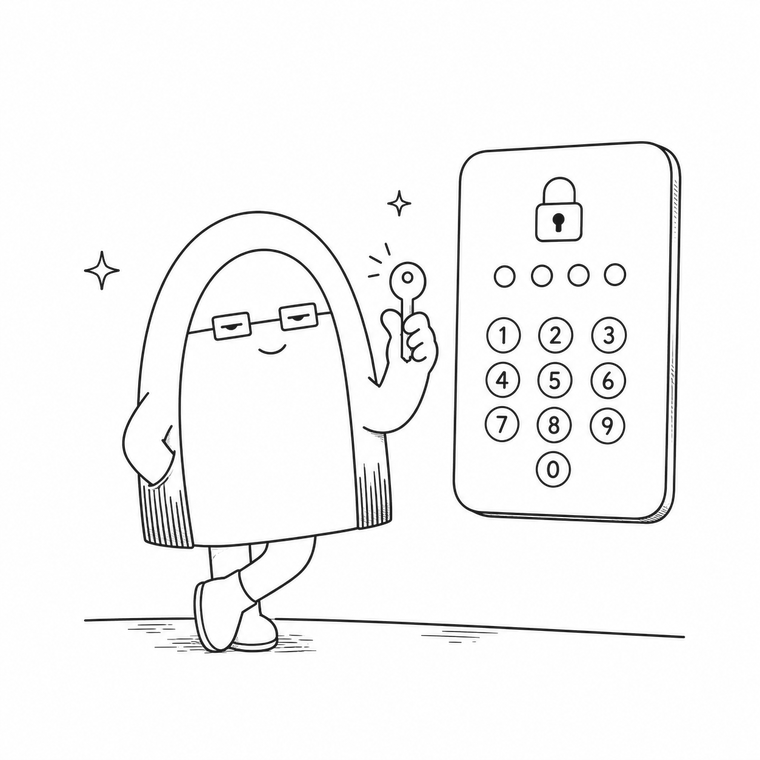
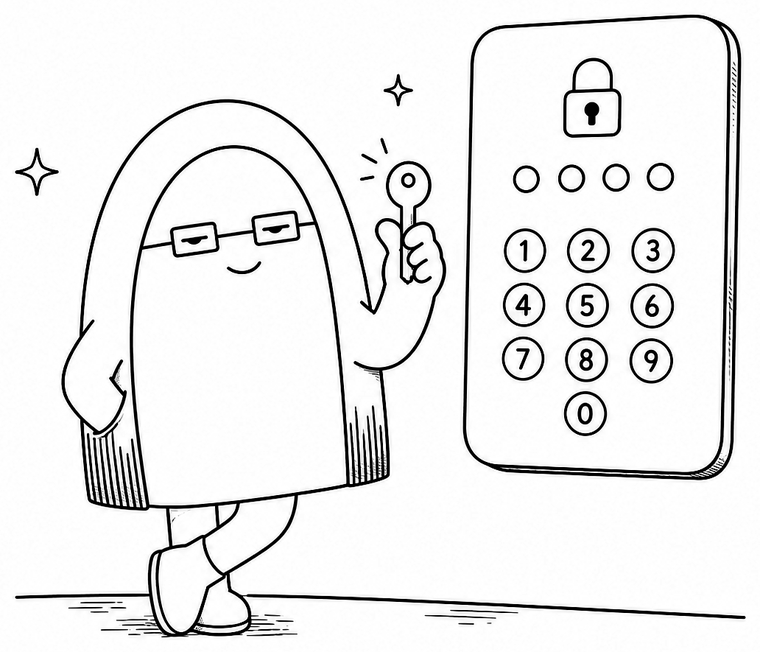
Navy gradient booking thumbnail; new passcode illustration on lock pages

diff --git a/index.html b/index.html
@@ -7,7 +7,7 @@
 <link rel="preconnect" href="https://fonts.gstatic.com" crossorigin>
 <link href="https://fonts.googleapis.com/css2?family=Poppins:wght@400;500;600;700;800&display=swap" rel="stylesheet">
 <title>Po Chun Lin — Product Design × Strategy</title>
-<link rel="stylesheet" href="style.css?v=7">
+<link rel="stylesheet" href="style.css?v=8">
 </head>
 <body>
 <nav class="site">
@@ -52,7 +52,7 @@
       <button class="car-btn prev" type="button" aria-label="Previous"><svg width="22" height="22" viewBox="0 0 24 24" fill="none" stroke="currentColor" stroke-width="2.6" stroke-linecap="round" stroke-linejoin="round"><polyline points="15 18 9 12 15 6"/></svg></button>
       <div class="carousel-track">
       <a class="pcard" href="booking-for-business.html">
-        <div class="thumb t-green"><img src="assets/booking-hero.jpg" alt="Booking.com for Business app expense screen"></div>
+        <div class="thumb t-navy"><img src="assets/booking-hero.jpg" alt="Booking.com for Business app expense screen"></div>
         <div class="body">
           <span class="cat">Mobile App · AI Automation · 2025</span>
           <h3>Booking.com for Business App</h3>

diff --git a/projects.html b/projects.html
@@ -7,7 +7,7 @@
 <link rel="preconnect" href="https://fonts.gstatic.com" crossorigin>
 <link href="https://fonts.googleapis.com/css2?family=Poppins:wght@400;500;600;700;800&display=swap" rel="stylesheet">
 <title>Projects — Po Chun Lin</title>
-<link rel="stylesheet" href="style.css?v=7">
+<link rel="stylesheet" href="style.css?v=8">
 </head>
 <body>
 <nav class="site">
@@ -29,7 +29,7 @@
     <p class="lede" style="margin-top:14px">Each case study is written decision-first: the trade-offs, the rejected options, and what the outcome taught me.</p></div>
     <div class="cards">
       <a class="pcard reveal" href="booking-for-business.html">
-        <div class="thumb t-green"><img src="assets/booking-hero.jpg" alt="Booking.com for Business app expense screen"></div>
+        <div class="thumb t-navy"><img src="assets/booking-hero.jpg" alt="Booking.com for Business app expense screen"></div>
         <div class="body">
           <span class="cat">Mobile App · AI Automation · 2025</span>
           <h3>Booking.com for Business App</h3>

diff --git a/about.html b/about.html
@@ -7,7 +7,7 @@
 <link rel="preconnect" href="https://fonts.gstatic.com" crossorigin>
 <link href="https://fonts.googleapis.com/css2?family=Poppins:wght@400;500;600;700;800&display=swap" rel="stylesheet">
 <title>About — Po Chun Lin</title>
-<link rel="stylesheet" href="style.css?v=7">
+<link rel="stylesheet" href="style.css?v=8">
 </head>
 <body>
 <nav class="site">

diff --git a/play.html b/play.html
@@ -7,7 +7,7 @@
 <link rel="preconnect" href="https://fonts.gstatic.com" crossorigin>
 <link href="https://fonts.googleapis.com/css2?family=Poppins:wght@400;500;600;700;800&display=swap" rel="stylesheet">
 <title>Play — Po Chun Lin</title>
-<link rel="stylesheet" href="style.css?v=7">
+<link rel="stylesheet" href="style.css?v=8">
 </head>
 <body>
 <nav class="site">

diff --git a/style.css b/style.css
@@ -77,6 +77,7 @@ h3{font-size:19px;font-weight:700;color:var(--black)}
 .pcard .go{margin-top:16px;font-size:14px;font-weight:700;color:var(--green)}
 .badge-soon{position:absolute;top:16px;right:16px;background:var(--black);color:#fff;font-size:11px;font-weight:800;letter-spacing:.1em;text-transform:uppercase;padding:6px 12px;border-radius:99px;z-index:2}
 .t-green{background:linear-gradient(135deg,var(--green),var(--green2))}
+.t-navy{background:linear-gradient(100deg,#111726 0%,#1E1F4E 55%,#33308A 100%)}
 .t-sand{background:var(--sand)}
 .t-lilac{background:var(--lilac)}
 .t-sky{background:var(--sky)}